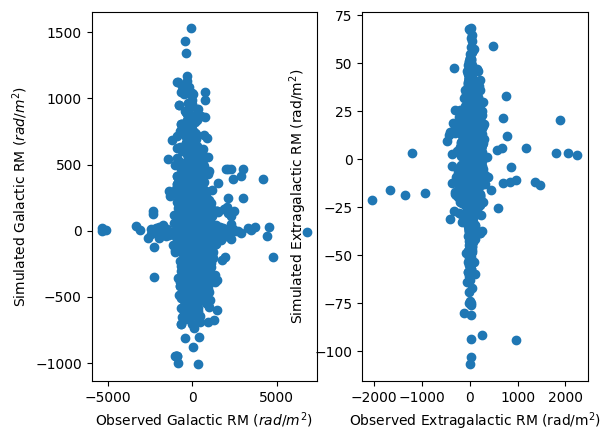
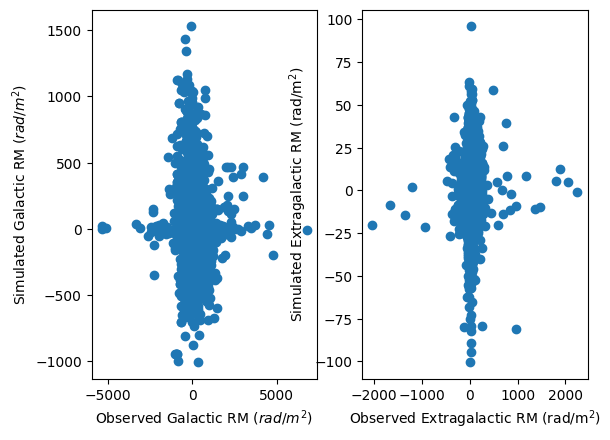
Three components updated code.

diff --git a/src/model_library/extra_galactic_models/ExtraGalModel.py b/src/model_library/extra_galactic_models/ExtraGalModel.py
@@ -71,7 +71,7 @@ class ExtraGalModel(Model):
 
             multiply_z = ift.makeOp(ift.Field(self.target_domain, 1./(1+self.z)**4),sampling_dtype=float)
 
-            multiply_L = ift.makeOp(ift.Field(self.target_domain, np.log(self.F*4*m.pi*Dl**2*factor/L0)),sampling_dtype=float)
+            multiply_L = ift.makeOp(ift.Field(self.target_domain, (self.F*4*m.pi*Dl**2*factor/L0)),sampling_dtype=float)
 
 
             expander_chi = ift.VdotOperator(ift.full(self.target_domain, 1.)).adjoint
